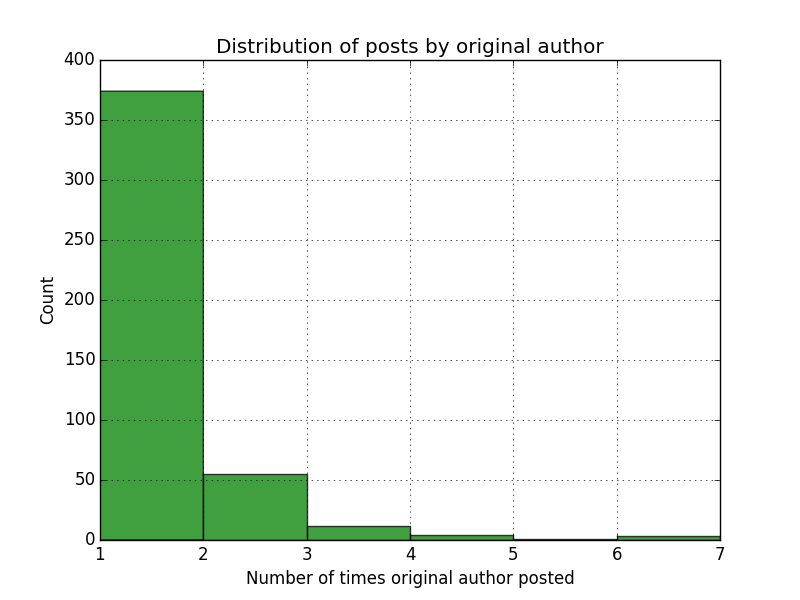
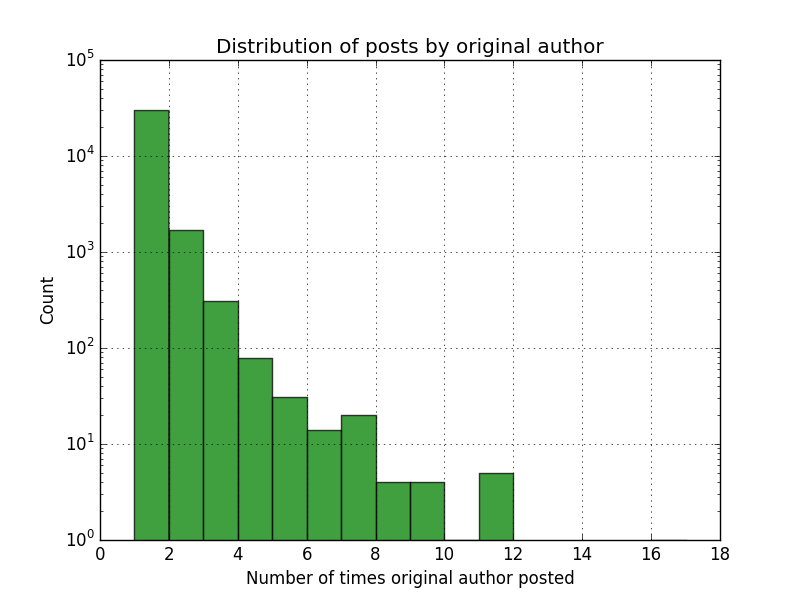
Plots Updated

Changed region(s): [[0.25, 0.48, 0.9062, 0.93], [0.0625, 0.15, 0.2812, 0.93], [0.0625, 0.09, 0.125, 0.12]]

diff --git a/unique_score_right_chain.py b/unique_score_right_chain.py
@@ -1,27 +1,32 @@
 #plots for reddit
+import csv
 import json
 from collections import Counter
 from matplotlib import pyplot
 import numpy as np
+import pprint
 import csv
 
 with open('final_filtered.csv') as f:
     reader = csv.reader(f)
     lengths = []
     uniqueAuthorsNo = []
+    best_score=[]
     for row in reader:
         index, link, author, subreddit_link, created_time, score, json_info = row
         created_time = float(created_time)
         score = int(score)
         line = json.loads(json_info)
-        if len(line) > 1:
+        if len(line) > 0:
             line.sort(key=lambda s: s[2])
             uniqueAuthors=[]#list(set(list(line[0])))
-            for j in range(len(line)):
+            index=line.index(max(line,key=lambda s:s[3]))
+            for j in range(index,len(line)):
             	uniqueAuthors.append(line[j][0])
             uniqueAuthors=list(set(uniqueAuthors))
             #uniqueAuthorsNo.append(float(len(uniqueAuthors)/len(line)))
-            uniqueAuthorsNo.append(float(len(uniqueAuthors))/len(line))
+            best_score.append(max(line, key=lambda s: s[3])[3])
+            uniqueAuthorsNo.append(len(uniqueAuthors)-1)
             lengths.append(len(line))
     #print lengths
     #print uniqueAuthorsNo
@@ -31,12 +36,13 @@ with open('final_filtered.csv') as f:
     #print x
     #bins = [i * 1 for i in range(10)]
 
-    pyplot.hist(x, bins=np.arange(min(x), max(x) + 0.1, 0.1), facecolor='green', alpha=0.75) #log=True)
-    #pyplot.hist(x,bins=20)
-    pyplot.xlabel('Number of unique authors/ Chain length')
-    pyplot.ylabel('Count')
+    #pyplot.hist(x, bins=bins, facecolor='green', alpha=0.75)
+    pyplot.scatter(uniqueAuthorsNo, best_score, s=20, alpha=0.75)
+    pyplot.xlabel('Unique authors in right chain')
+    pyplot.ylabel('Best Score')
     # pyplot.suptitle(r'pvalue')
 
-    pyplot.title(r'Distribution of different authors reposting')
+    pyplot.title(r'Distribution of scores by unique users in right chain')
     pyplot.grid(True)
-    pyplot.savefig('unique_authors' + '.png')
+    pyplot.savefig('unique_score_right_chain' + '.png')
+

diff --git a/right_unique_authors.py b/right_unique_authors.py
@@ -14,14 +14,15 @@ with open('final_filtered.csv') as f:
         created_time = float(created_time)
         score = int(score)
         line = json.loads(json_info)
-        if len(line) > 1:
+        if len(line) > 0:
             line.sort(key=lambda s: s[2])
             uniqueAuthors=[]#list(set(list(line[0])))
-            for j in range(len(line)):
+            index=line.index(max(line,key=lambda s:s[3]))
+            for j in range(index,len(line)):
             	uniqueAuthors.append(line[j][0])
             uniqueAuthors=list(set(uniqueAuthors))
             #uniqueAuthorsNo.append(float(len(uniqueAuthors)/len(line)))
-            uniqueAuthorsNo.append(float(len(uniqueAuthors))/len(line))
+            uniqueAuthorsNo.append(len(uniqueAuthors)-1)
             lengths.append(len(line))
     #print lengths
     #print uniqueAuthorsNo
@@ -31,12 +32,12 @@ with open('final_filtered.csv') as f:
     #print x
     #bins = [i * 1 for i in range(10)]
 
-    pyplot.hist(x, bins=np.arange(min(x), max(x) + 0.1, 0.1), facecolor='green', alpha=0.75) #log=True)
-    #pyplot.hist(x,bins=20)
-    pyplot.xlabel('Number of unique authors/ Chain length')
+    #pyplot.hist(x, bins=bins, facecolor='green', alpha=0.75)
+    pyplot.hist(x,bins=np.arange(min(x),max(x)+1,1),facecolor='green', alpha=0.75, log=True)
+    pyplot.xlabel('Unique authors in the right chain')
     pyplot.ylabel('Count')
     # pyplot.suptitle(r'pvalue')
 
-    pyplot.title(r'Distribution of different authors reposting')
+    pyplot.title(r'Distribution of unique authors in the right chain')
     pyplot.grid(True)
-    pyplot.savefig('unique_authors' + '.png')
+    pyplot.savefig('right_chain_unique_authors' + '.png')

diff --git a/max_score_distrib.py b/max_score_distrib.py
@@ -1,36 +1,36 @@
-__author__ = 'sn'
+import csv
 import json
+import pprint
 from collections import Counter
 from matplotlib import pyplot
 import numpy as np
-import csv
 
 with open('final_filtered.csv') as f:
     reader = csv.reader(f)
-    lengths = []
+    score_list = []
     for row in reader:
         index, link, author, subreddit_link, created_time, score, json_info = row
         created_time = float(created_time)
         score = int(score)
         line = json.loads(json_info)
-        #print line        
         if len(line) > 0:
             line.sort(key=lambda s: s[2])
-            original_author = line[0][0]
-            #print original_author
-            lengths.append(len([item for item in line if item[0] == original_author]))
-    #print lengths
-    c = Counter(lengths)
+            score_list.append(max(line, key=lambda s: s[3])[3])
+
+	c = Counter(score_list)
 
     x = list(c.elements())
     #print x
     #bins = [i * 1 for i in range(10)]
 
-    pyplot.hist(x, bins=np.arange(min(x), max(x) + 1, 1), facecolor='green', alpha=0.75, log=True)
-    pyplot.xlabel('Number of times original author posted')
+    #pyplot.hist(x, bins=bins, facecolor='green', alpha=0.75)
+    pyplot.hist(x,bins=np.arange(min(x),max(x)+1,1),facecolor='green', alpha=0.75)
+    pyplot.xlabel('Maximum scores')
     pyplot.ylabel('Count')
     # pyplot.suptitle(r'pvalue')
 
-    pyplot.title(r'Distribution of posts by original author')
+    pyplot.title(r'Distribution of maximum scores')
     pyplot.grid(True)
-    pyplot.savefig('original_author' + '.png')
+    pyplot.savefig('max_score_distribution' + '.png')
+
+ 			

diff --git a/left_right_chain.py b/left_right_chain.py
@@ -3,19 +3,17 @@ import json
 from collections import Counter
 from matplotlib import pyplot
 import numpy as np
+import csv
 
-with open('combined.csv', 'r') as f:
+with open('final_filtered.csv') as f:
+    reader = csv.reader(f)
     left_chain = []
     right_chain = []
-    count = 1
-    for line in f:
-        if count == 500:
-            break;
-        line = line.split(',', 6)
-
-        line = line[-1]
-        line = json.loads(line)
-        count = count + 1
+    for row in reader:
+        index, link, author, subreddit_link, created_time, score, json_info = row
+        created_time = float(created_time)
+        score = int(score)
+        line = json.loads(json_info)
         if len(line) > 0:
             line.sort(key=lambda s: s[2])
             index = line.index(max(line, key=lambda s: s[3]))
@@ -32,7 +30,7 @@ with open('combined.csv', 'r') as f:
     #print x
     #bins = [i * 1 for i in range(10)]
 
-    pyplot.hist(x, bins=np.arange(min(x), max(x) + 1, 1), facecolor='green', alpha=0.75)
+    pyplot.hist(x, bins=np.arange(min(x), max(x) + 5, 5), facecolor='green', alpha=0.75, log=True)
     pyplot.xlabel('Left Chain Length')
     pyplot.ylabel('Count')
     # pyplot.suptitle(r'pvalue')
@@ -47,7 +45,7 @@ with open('combined.csv', 'r') as f:
     #print x
     #bins = [i * 1 for i in range(10)]
 
-    pyplot.hist(x, bins=np.arange(min(x), max(x) + 1, 1), facecolor='green', alpha=0.75)
+    pyplot.hist(x, bins=np.arange(min(x), max(x) + 1, 1), facecolor='green', alpha=0.75, log=True)
     pyplot.xlabel('Right Chain Length')
     pyplot.ylabel('Count')
     # pyplot.suptitle(r'pvalue')

diff --git a/score_right_chain.py b/score_right_chain.py
@@ -3,23 +3,21 @@ import json
 from collections import Counter
 from matplotlib import pyplot
 import numpy as np
+import csv
 
-with open('combined.csv', 'r') as f:
-    score = []
+with open('final_filtered.csv') as f:
+    reader = csv.reader(f)
+    score_list = []
     right_chain = []
-    count = 1
-    for line in f:
-        if count == 500:
-            break;
-        line = line.split(',', 6)
-
-        line = line[-1]
-        line = json.loads(line)
-        count = count + 1
+    for row in reader:
+        index, link, author, subreddit_link, created_time, score, json_info = row
+        created_time = float(created_time)
+        score = int(score)
+        line = json.loads(json_info)
         if len(line) > 0:
             line.sort(key=lambda s: s[2])
             index = line.index(max(line, key=lambda s: s[3]))
-            score.append(max(line, key=lambda s: s[3])[3])
+            score_list.append(max(line, key=lambda s: s[3])[3])
             right_chain.append(len(line) - index -1)
             #original_author = line[0][0]
             #print original_author
@@ -32,7 +30,7 @@ with open('combined.csv', 'r') as f:
     #print x
     #bins = [i * 1 for i in range(10)]
 
-    pyplot.scatter(right_chain, score, s=20, alpha=0.75)
+    pyplot.scatter(right_chain, score_list, s=20, alpha=0.75)
     pyplot.xlabel('Right Chain Length')
     pyplot.ylabel('Score')
     # pyplot.suptitle(r'pvalue')

diff --git a/lengths.py b/lengths.py
@@ -3,28 +3,29 @@ import json
 from collections import Counter
 from matplotlib import pyplot
 import numpy as np
+import csv
 
-with open('combined.csv', 'r') as f:
+with open('final_filtered.csv') as f:
+    reader = csv.reader(f)
     lengths = []
-    count = 1
-    for line in f:
-        if count == 500:
-            break
-
-        count = count + 1
-        line = line.split(',', 6)
-
-        line = line[-1]
-        line = json.loads(line)
+    for row in reader:
+        index, link, author, subreddit_link, created_time, score, json_info = row
+        created_time = float(created_time)
+        score = int(score)
+        line = json.loads(json_info)
         lengths.append(len(line))
 
+        #if len(line) == 235:
+         #   print link + " " + author + "\n"
+
     c = Counter(lengths)
+    #pprint.pprint(sorted(c.items()))
 
     x = list(c.elements())
     #print x
     #bins = [i * 1 for i in range(10)]
 
-    pyplot.hist(x, bins=np.arange(min(x), max(x) + 1, 1), facecolor='green', alpha=0.75)
+    pyplot.hist(x, bins=np.arange(min(x), max(x) + 10, 10), facecolor='green', alpha=0.75, log=True)
     pyplot.xlabel('Chain length')
     pyplot.ylabel('Count')
     #pyplot.suptitle(r'pvalue')
